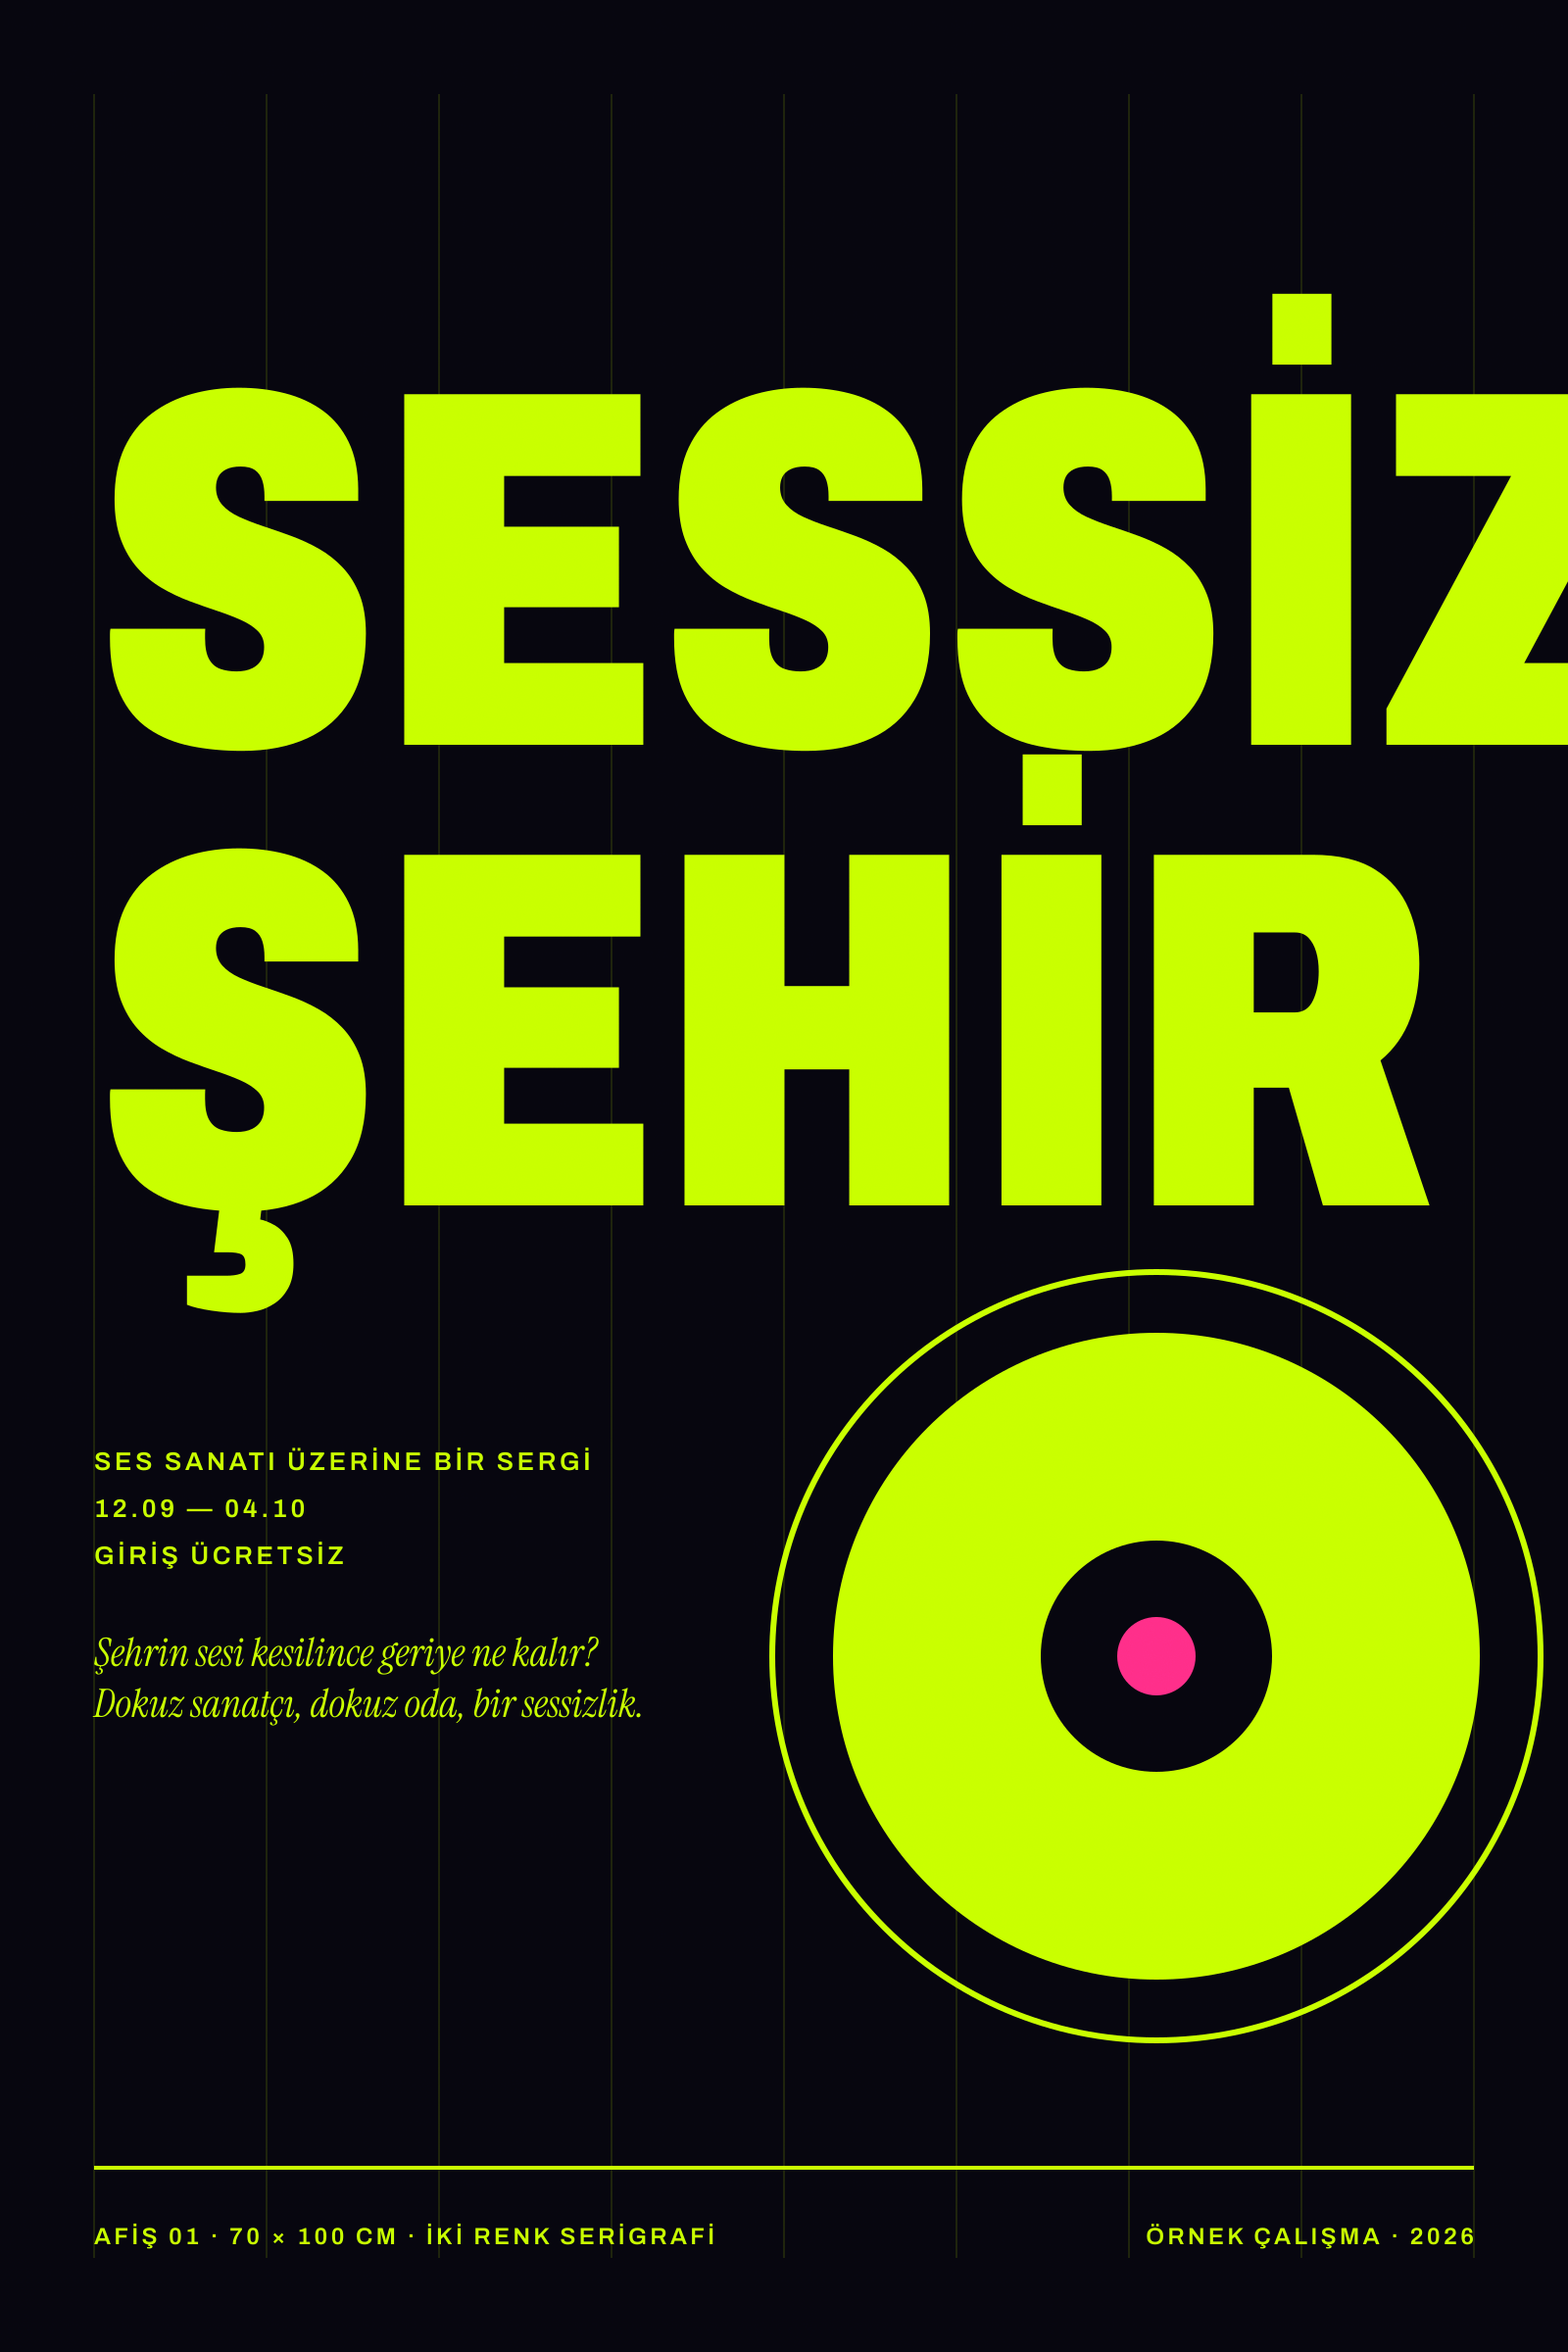
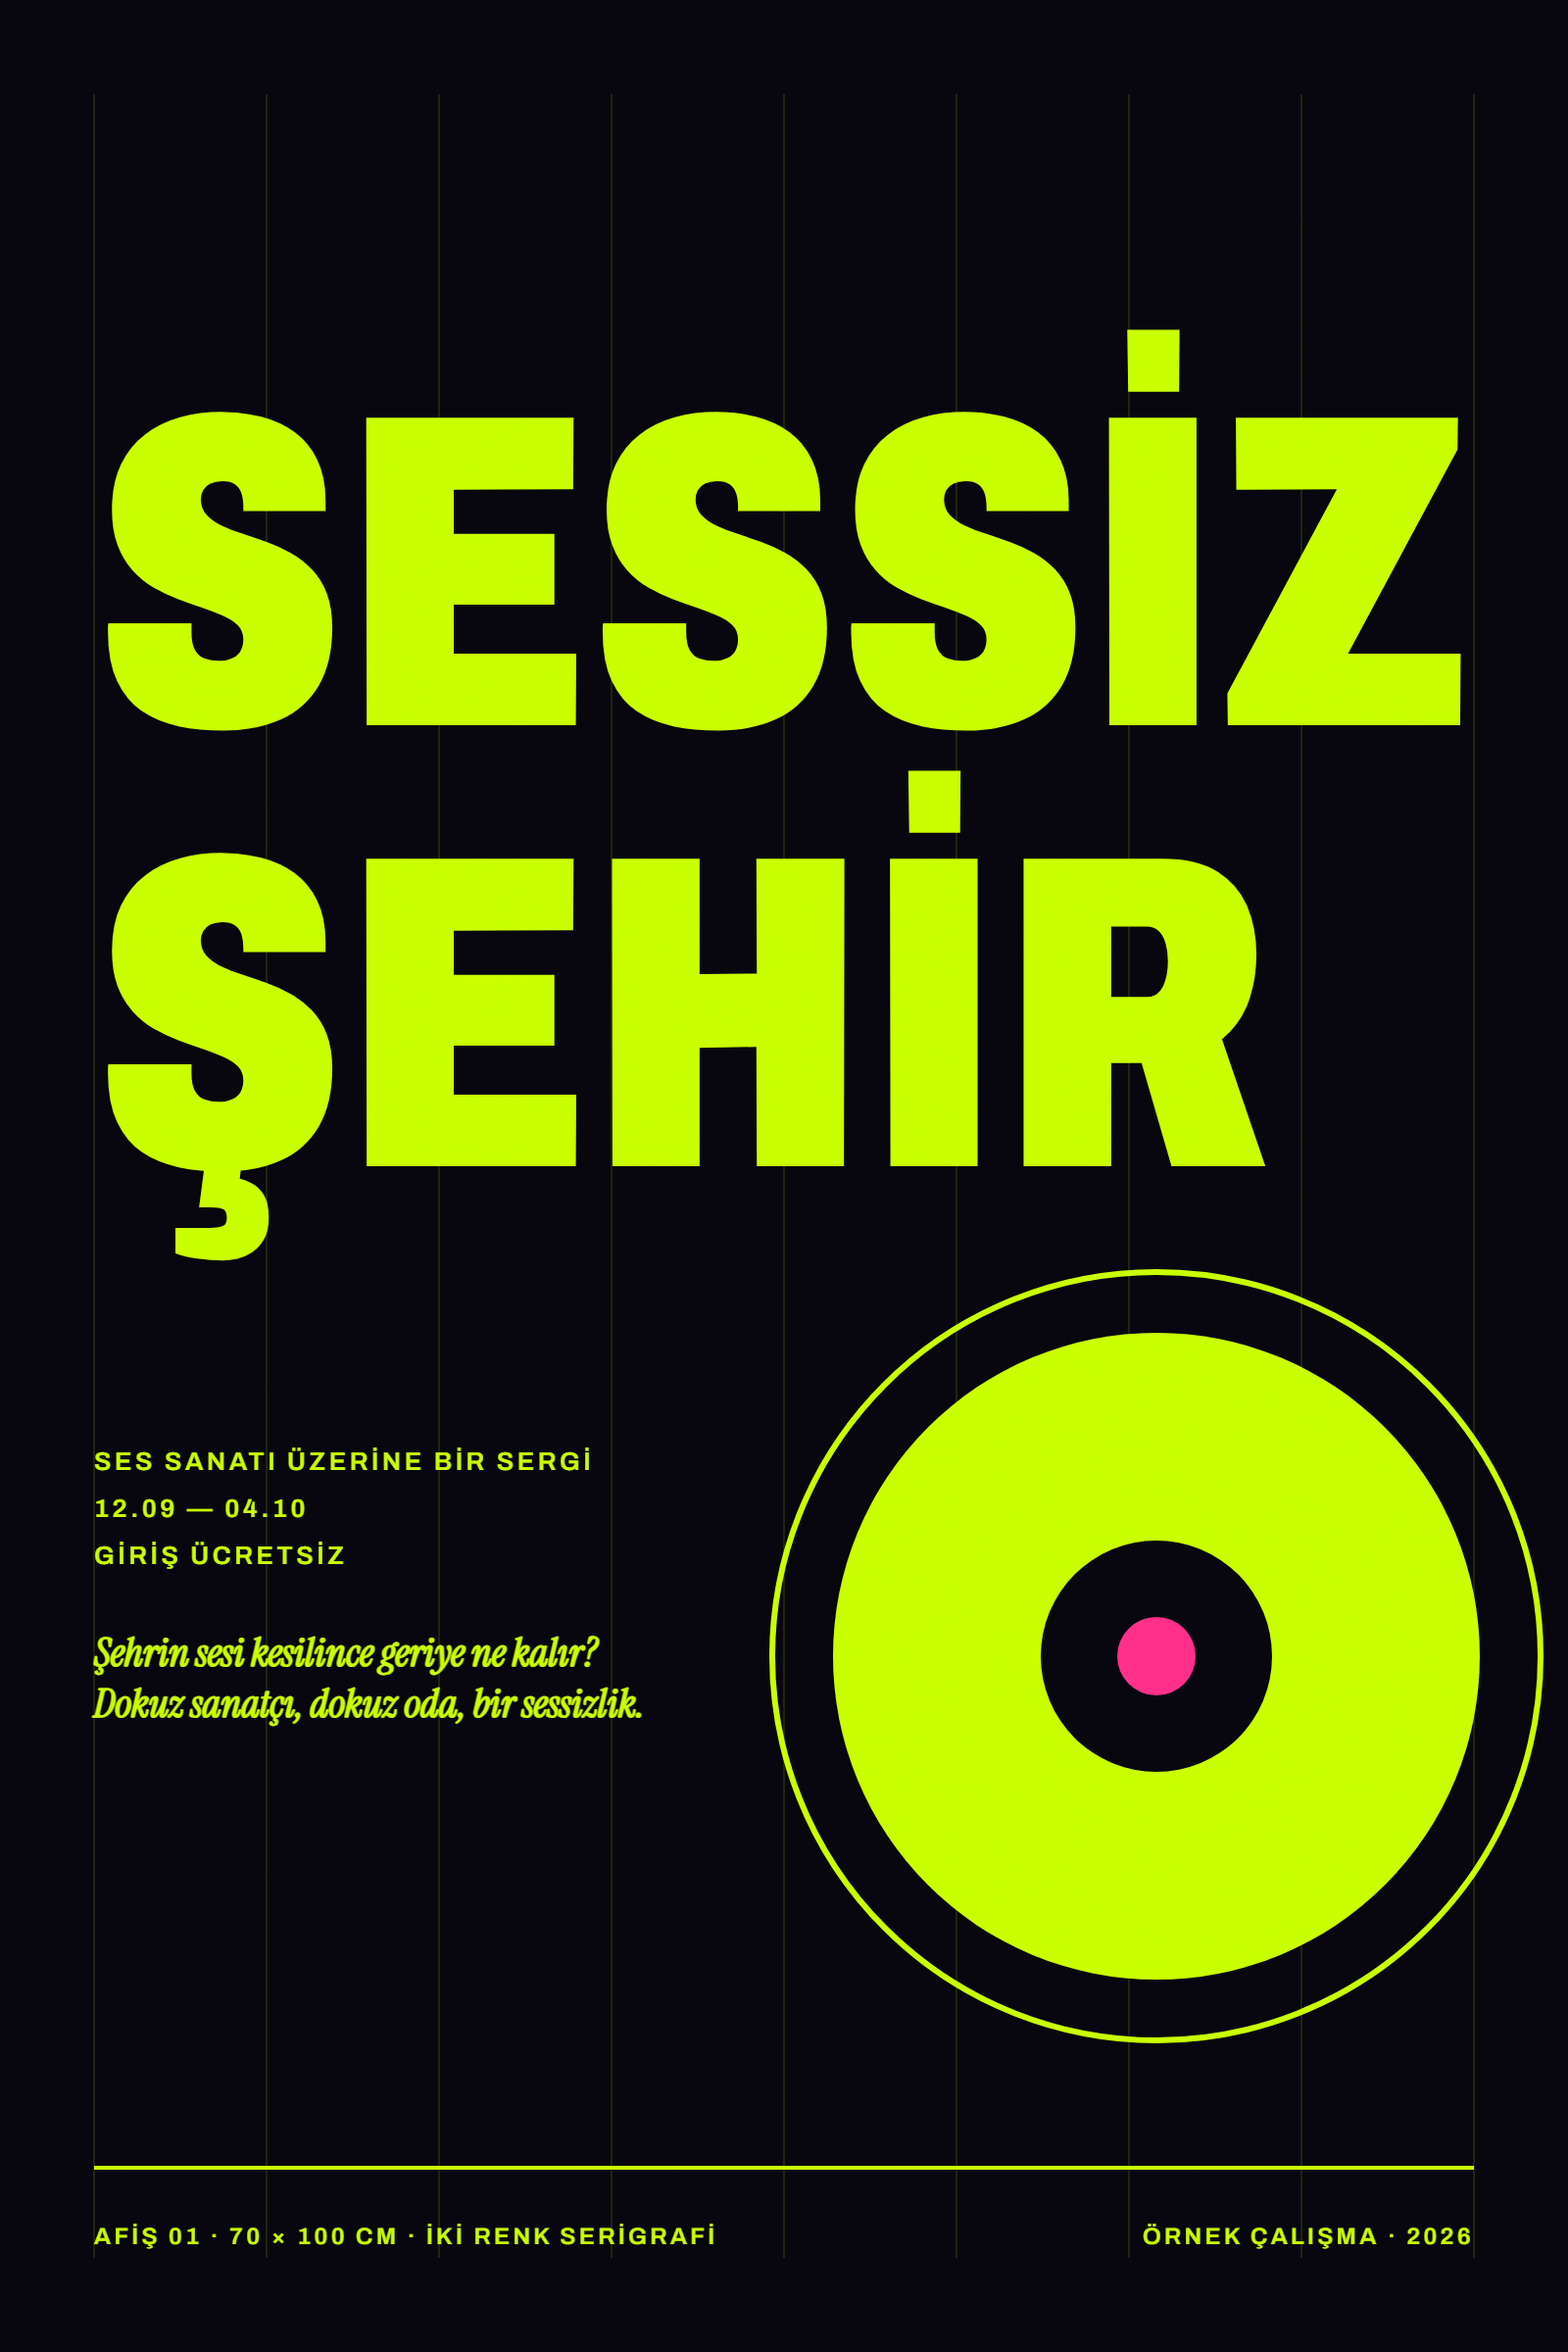
Sample posters read correctly in Turkish; share cards use Turkish upper case
SESSİZ ŞEHİR: the two lines sat closer than an em, so the dot of the İ in
ŞEHİR touched the S above it and the title read as SESŞİZ; the Z also ran
off the sheet. The lines are now a full em apart and end inside the margin.
KÂĞIT: the title fits its own page instead of being cut at the gutter.
SES: the word no longer runs under the width specimen.
KÜP: the cube clears the dots of the Ü; the domain stays KUP.STUDIO.
Share cards: project and category labels go through upper(), so
"Kimlik" becomes KİMLİK, not KIMLIK.

diff --git a/src/lib/workOg.tsx b/src/lib/workOg.tsx
@@ -1,7 +1,7 @@
 import { ImageResponse } from "next/og";
 import { readFile } from "node:fs/promises";
 import { join } from "node:path";
-import { L, works, type Lang } from "@/lib/content";
+import { L, upper, works, type Lang } from "@/lib/content";
 import { t } from "@/lib/i18n";
 
 export const ogSize = { width: 1200, height: 630 };
@@ -22,8 +22,8 @@ export async function workOg(lang: Lang, slug: string) {
     (
       <div style={{ width: "100%", height: "100%", display: "flex", background: w.colors[0], color: fg, fontFamily: "Archivo Condensed", padding: 64, position: "relative" }}>
         <div style={{ display: "flex", flexDirection: "column", justifyContent: "space-between", width: 620 }}>
-          <div style={{ display: "flex", fontSize: 26, letterSpacing: 4, opacity: 0.8 }}>{`${d.work.project.toUpperCase()} · ${d.categories[w.category].toUpperCase()} · ${w.year}`}</div>
-          <div style={{ display: "flex", fontSize: 150, lineHeight: 0.86, letterSpacing: -2 }}>{L(w.title, lang).toLocaleUpperCase(lang === "tr" ? "tr-TR" : "en-US")}</div>
+          <div style={{ display: "flex", fontSize: 26, letterSpacing: 4, opacity: 0.8 }}>{`${upper(d.work.project, lang)} · ${upper(d.categories[w.category], lang)} · ${w.year}`}</div>
+          <div style={{ display: "flex", fontSize: 150, lineHeight: 0.86, letterSpacing: -2 }}>{upper(L(w.title, lang), lang)}</div>
           <div style={{ display: "flex", fontSize: 30, letterSpacing: 4 }}>ELİF GEZGİN</div>
         </div>
         <div style={{ position: "absolute", right: 64, top: 64, bottom: 64, width: 420, display: "flex", overflow: "hidden", borderRadius: 8 }}>
